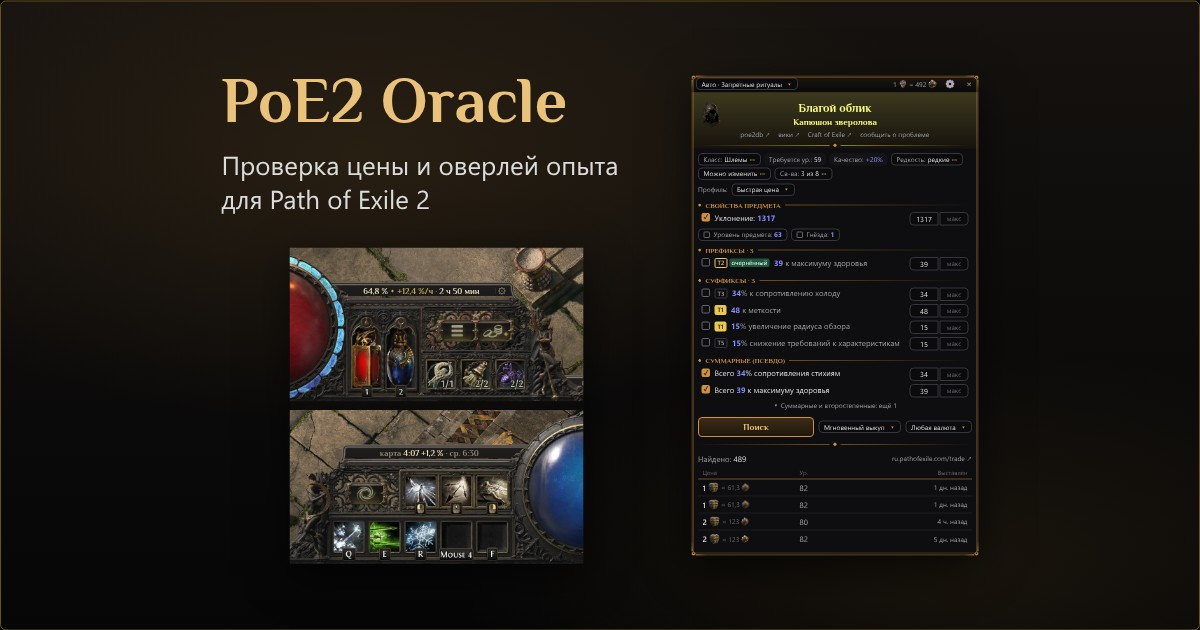
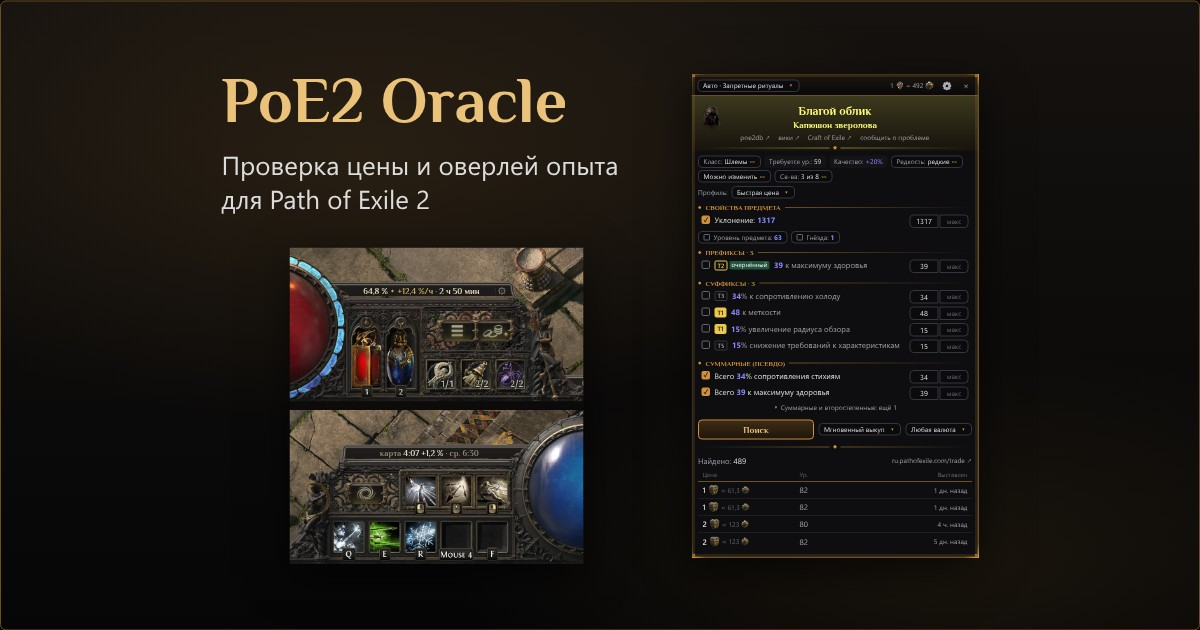
Guide and site pictures re-rendered for the new frames, 40 px title bar and settings rows
Rendered from site/ui/shots.html exactly as packaging/render-ui.mjs does (the same Chrome flags,
metrics, waits and encoder), through the lane preview: hero, og, price-check, market and settings
in both languages; xp-overlay came out byte-identical. README's hero width follows the picture
(941 px since the hero grew).

Changed region(s): [[0.555, 0.1206, 0.8325, 0.9048], [0.74, 0.3317, 0.8017, 0.3619]]

diff --git a/README.md b/README.md
@@ -28,7 +28,7 @@ The app's interface is in English and Russian: by default it follows the game cl
 or Windows' display language until the game has run, and the settings can switch it. The game
 client can be English or Russian. A short tour shows the basics on the first launch.
 
-<img src="docs/guide/src/images/en/hero.webp" width="952" alt="The PoE2 Oracle price panel, a currency's market card and both XP overlay plates">
+<img src="docs/guide/src/images/en/hero.webp" width="941" alt="The PoE2 Oracle price panel, a currency's market card and both XP overlay plates">
 
 ## Features
 
